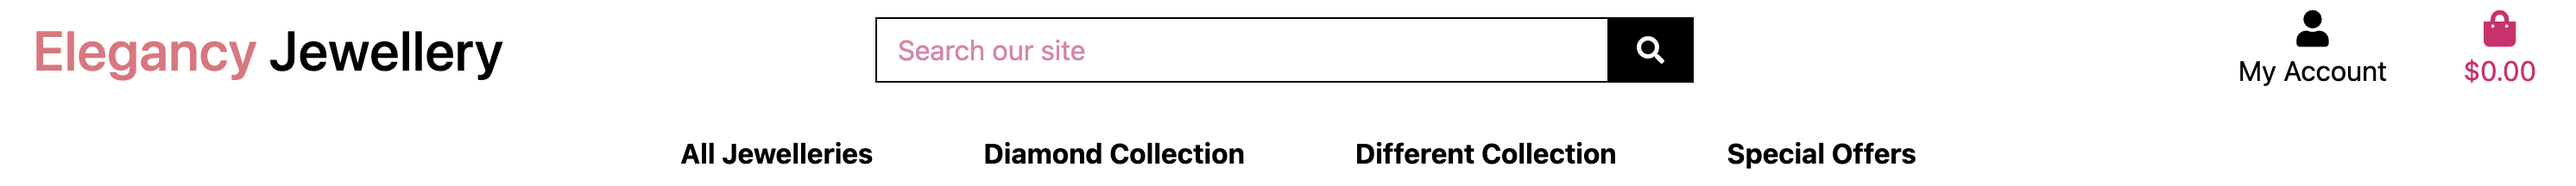
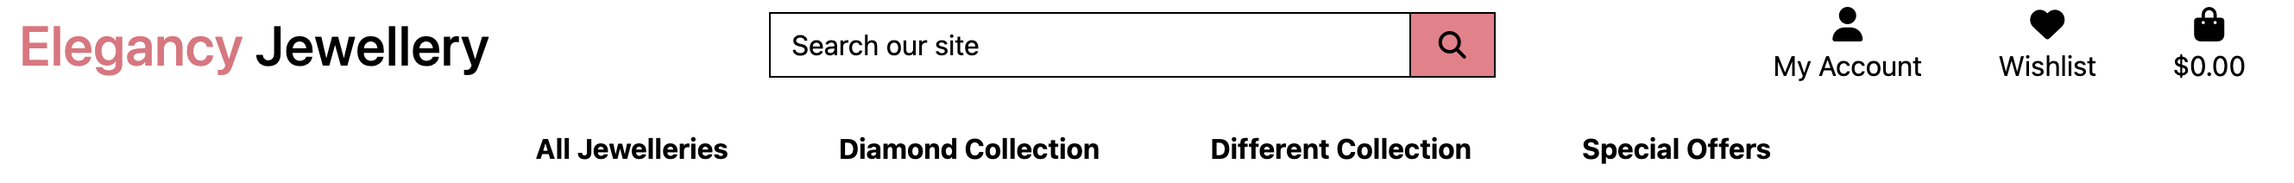
Added review section details in README.md

diff --git a/README.md b/README.md
@@ -188,7 +188,11 @@ Super users have access to contact us messages sent by users of the platform. Th
         * 04/24 (MM/YY)
         * 424 or 242 (CVC)
   ![Stripe](/readmeImages/stripe.png)
-
+11. Whishlist
+    * Users can add products to their wishlist while browsing the app. Each product page will have an option to "Add to Wishlist," allowing users to save items they are interested in.
+    * Users can view their wishlist at any time to see the products they have saved. The wishlist will display product names, images, and prices for easy reference.
+    * Users can easily remove items from their wishlist. Each item in the wishlist will have a ' Remove from wishlist'  option, allowing users to declutter their wishlist as their preferences change.
+    ![Wishlist](/readmeImages/wishlist.png)  
    <br><hr>
 [🔼 Back to top](#table-of-contents)
 
@@ -240,7 +244,7 @@ Super users have access to contact us messages sent by users of the platform. Th
   1. Logo![Logo](./readmeImages/logo.png)
    * Logo: The home page prominently displays shop logo at the top, by clicking on the logo users will be able to return to homepage.
 
-  2. Navigation Bar ![Navigation bar](./readmeImages/navigation.png)
+  2. Navigation Bar ![Navigation](/readmeImages/navigation.png)
 
    * Navigation Bar with Categories:A navigation bar provides easy access to various product categories, making it simple for users to browse and find the products they're interested in.
     ![Burger Menu](./readmeImages/burgerMenu.png)
@@ -280,7 +284,7 @@ Super users have access to contact us messages sent by users of the platform. Th
     1. Login Success
 
    Upon a successful login, a personalized notification toast is displayed to greet the user by their name. This personalization helps create a more engaging and connected user experience. The notification is designed to be responsive, ensuring a consistent and visually appealing appearance across different screen sizes and devices.
- ![](/readmeImages/login.png)
+ ![](/readmeImages/logIn.png)
 
    2. Logout
 
@@ -298,7 +302,7 @@ Super users have access to contact us messages sent by users of the platform. Th
 
   * I've implemented error toast notifications to alert users when they encounter issues or input errors. These error messages are displayed when, for example, a user submits a form with missing or invalid data. Clear and informative error messages help users understand and address the issues at hand.
 
- ![](/readmeImages/error.png)
+ ![](/readmeImages/searchError.png)
 
  4. Alert Messages
 
@@ -319,6 +323,7 @@ Super users have access to contact us messages sent by users of the platform. Th
    * Users can learn about materials, dimensions, care instructions, and more.
    * User can learn about products such as diamonds shape, diamonds carats and gold karats.
    * Users can easily add the product to their shopping cart for future purchase.
+   * Users can create multiple wishlists and manage them easily. They can add or remove products from their wishlists with a simple click. Clicking on an item in the wishlist opens up product details for a comprehensive view.
   3. 
   ![Sort By](/readmeImages/sortBy.png)
    * The "Sort By" tool is a powerful feature that empowers users to customize how they view and interact with our extensive collection of jewelry products. It provides flexibility and control over the product listing, allowing users to tailor their browsing experience according to their needs and preferences.
@@ -327,6 +332,17 @@ Super users have access to contact us messages sent by users of the platform. Th
    * Pagination is a user interface feature that enhances the browsing experience for users when navigating through extensive lists of jewelry products. It ensures that the product listings remain organized and manageable, enabling users to explore our diverse collection with ease.
   5. 
   ![Arrow Up](/readmeImages/arrowUp.png)
+
+  6. 
+  ![ Leave Rate](/readmeImages/rateForm.png)
+  * Users can rate products using a visual system of yellow stars. Each product will have a set of empty stars, and users can click on the stars to fill them, indicating their rating. The more stars filled, the higher the rating.
+  * Below the star rating, users can find a text box where they can type their detailed review. The review form encourages users to share their experiences, thoughts, and opinions about the product.
+  * After submitting a review, users receive a thank-you message acknowledging their contribution. This message can include a note of appreciation for helping the community and other shoppers.
+
+  ![Message](/readmeImages/reviewMessage.png)
+  * Users can see a list of reviews left by other buyers, including their ratings (displayed as yellow stars) and detailed written feedback. Each review is accompanied by the reviewer's username or initials, indicating who provided the feedback.
+
+  ![](/readmeImages/reviewHistory.png)
 
   * Cart/ Shopping Bag 
 
@@ -345,6 +361,10 @@ Super users have access to contact us messages sent by users of the platform. Th
   ![Checkout Overlay](/readmeImages/spinner.png)
     * Users who checkout will see a simple overlay with a spinning icon while the payment is processed.
 
+  * After a successful purchase, users receive a confirmation email to acknowledge their order and provide essential details about the transaction.
+  
+  ![](/readmeImages/confirmationEmail.png)
+  
   * Jewellery Custom Form
   1. 
   ![Custom Form](/readmeImages/customForm.png)
